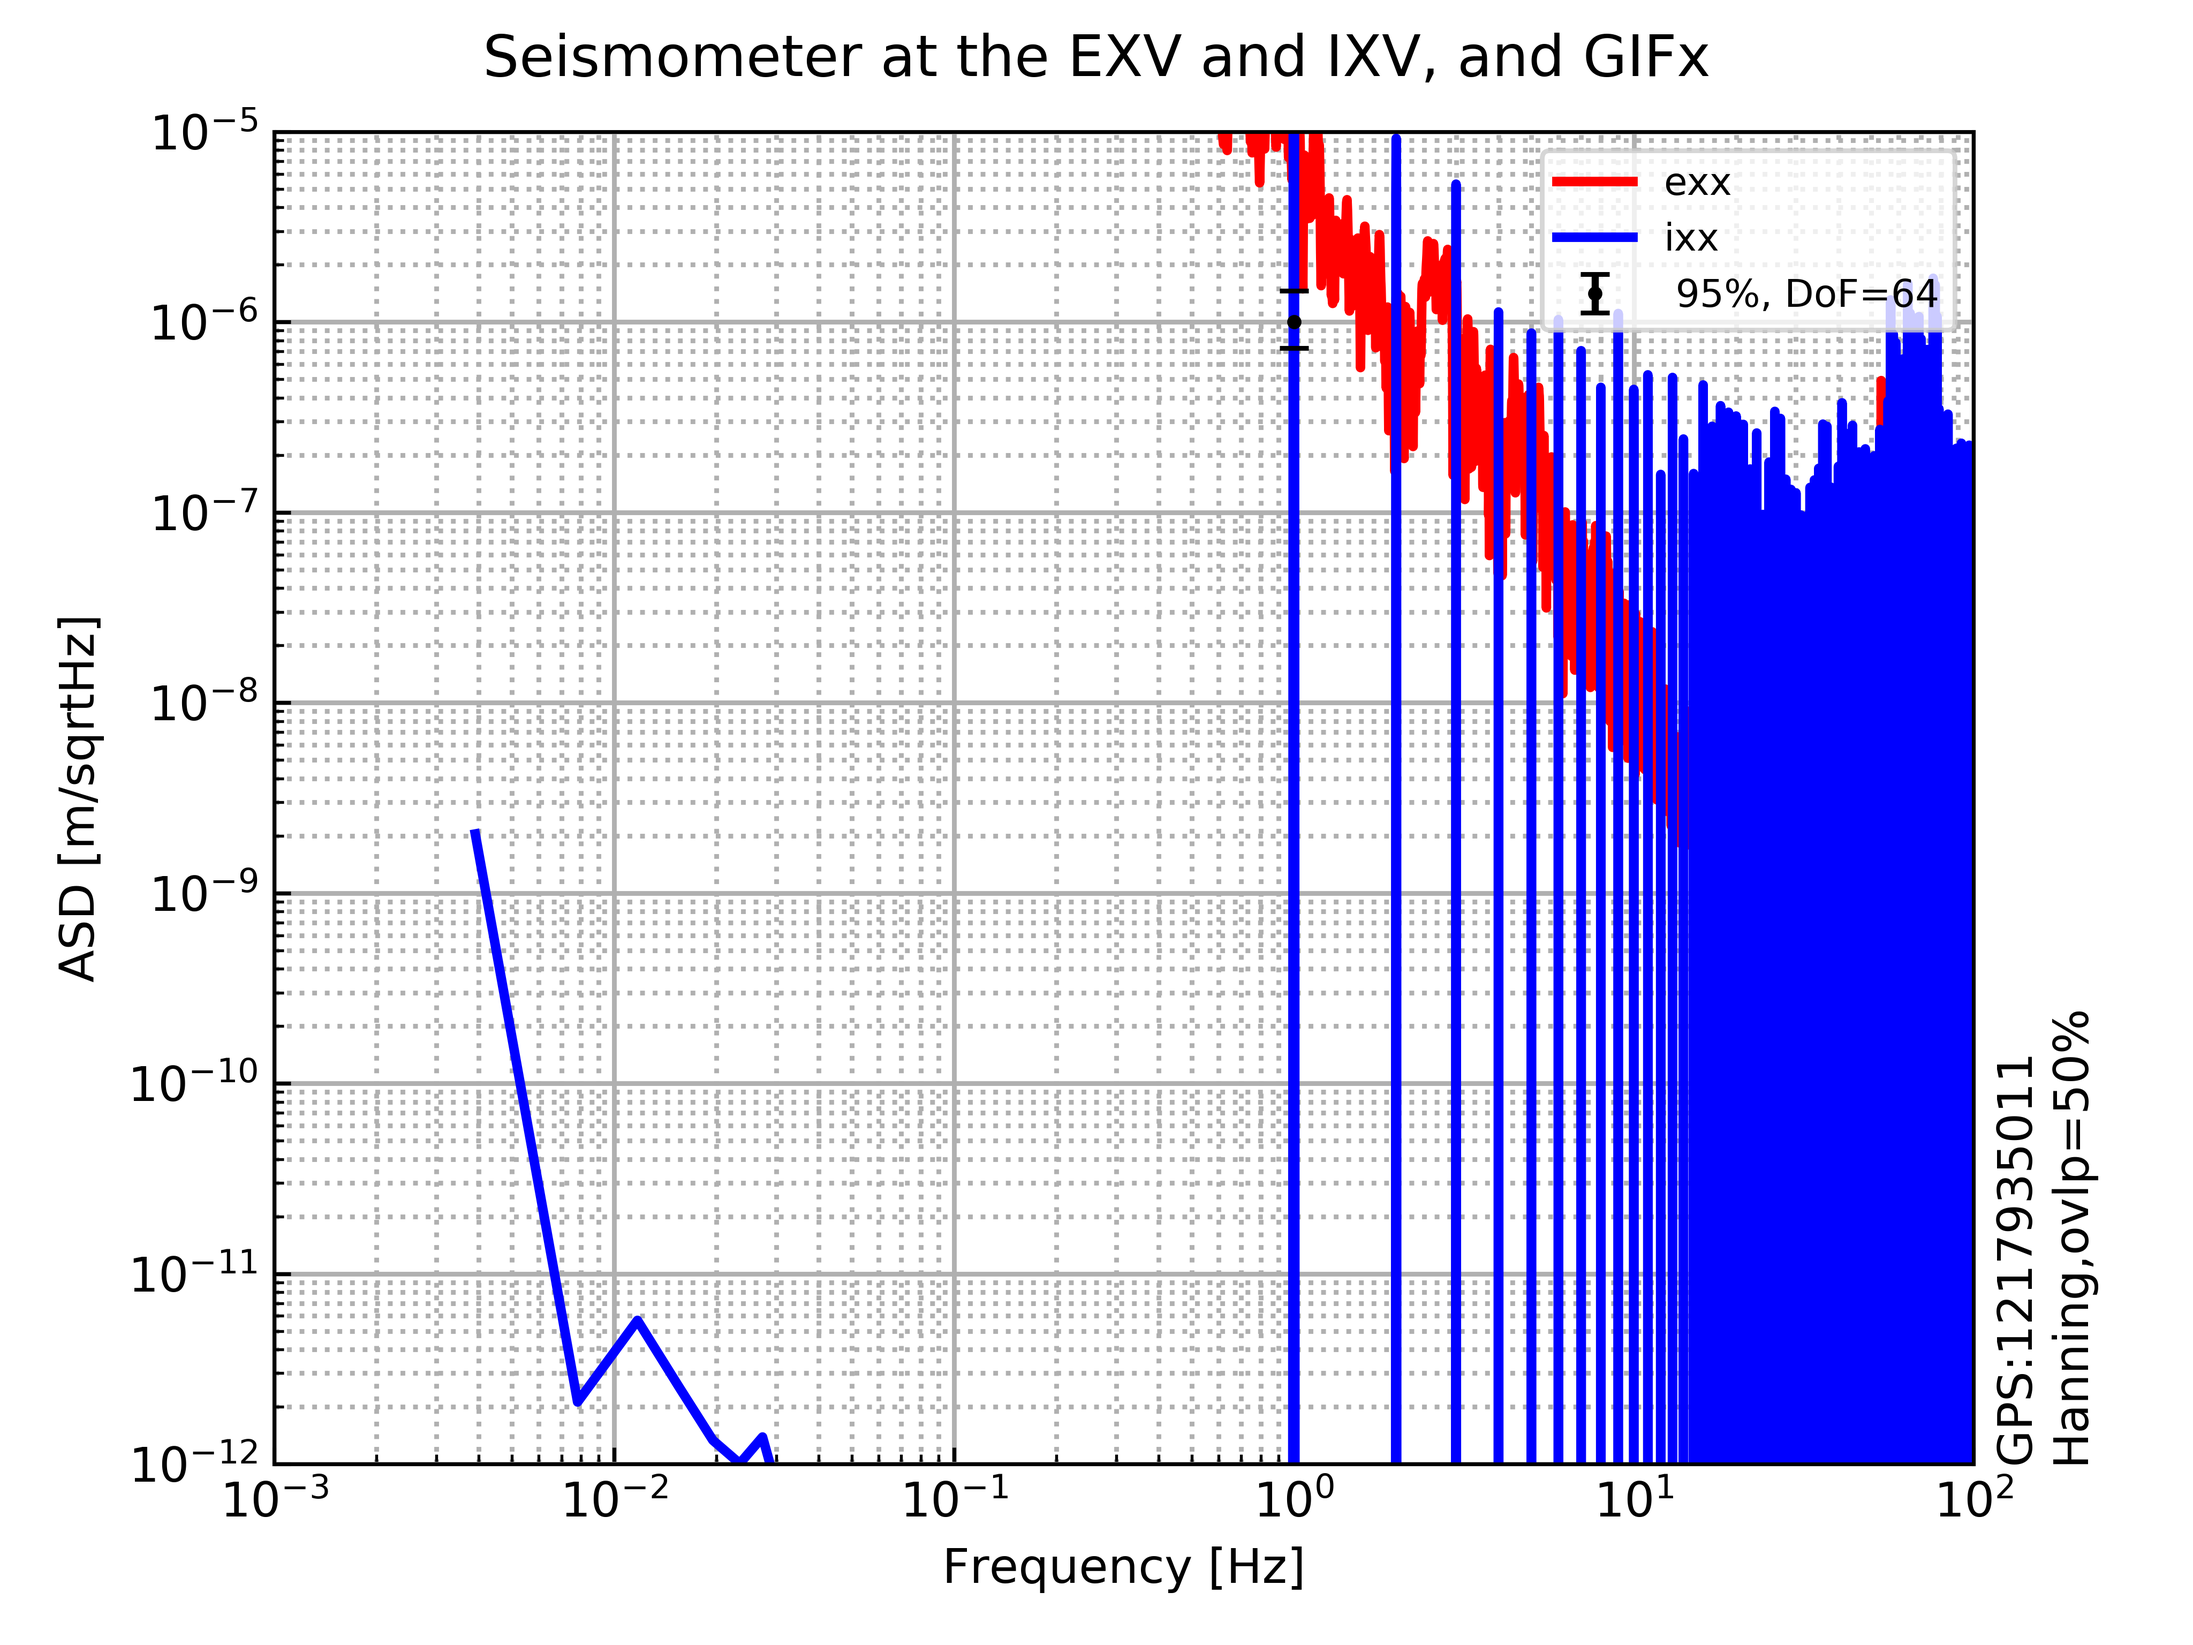
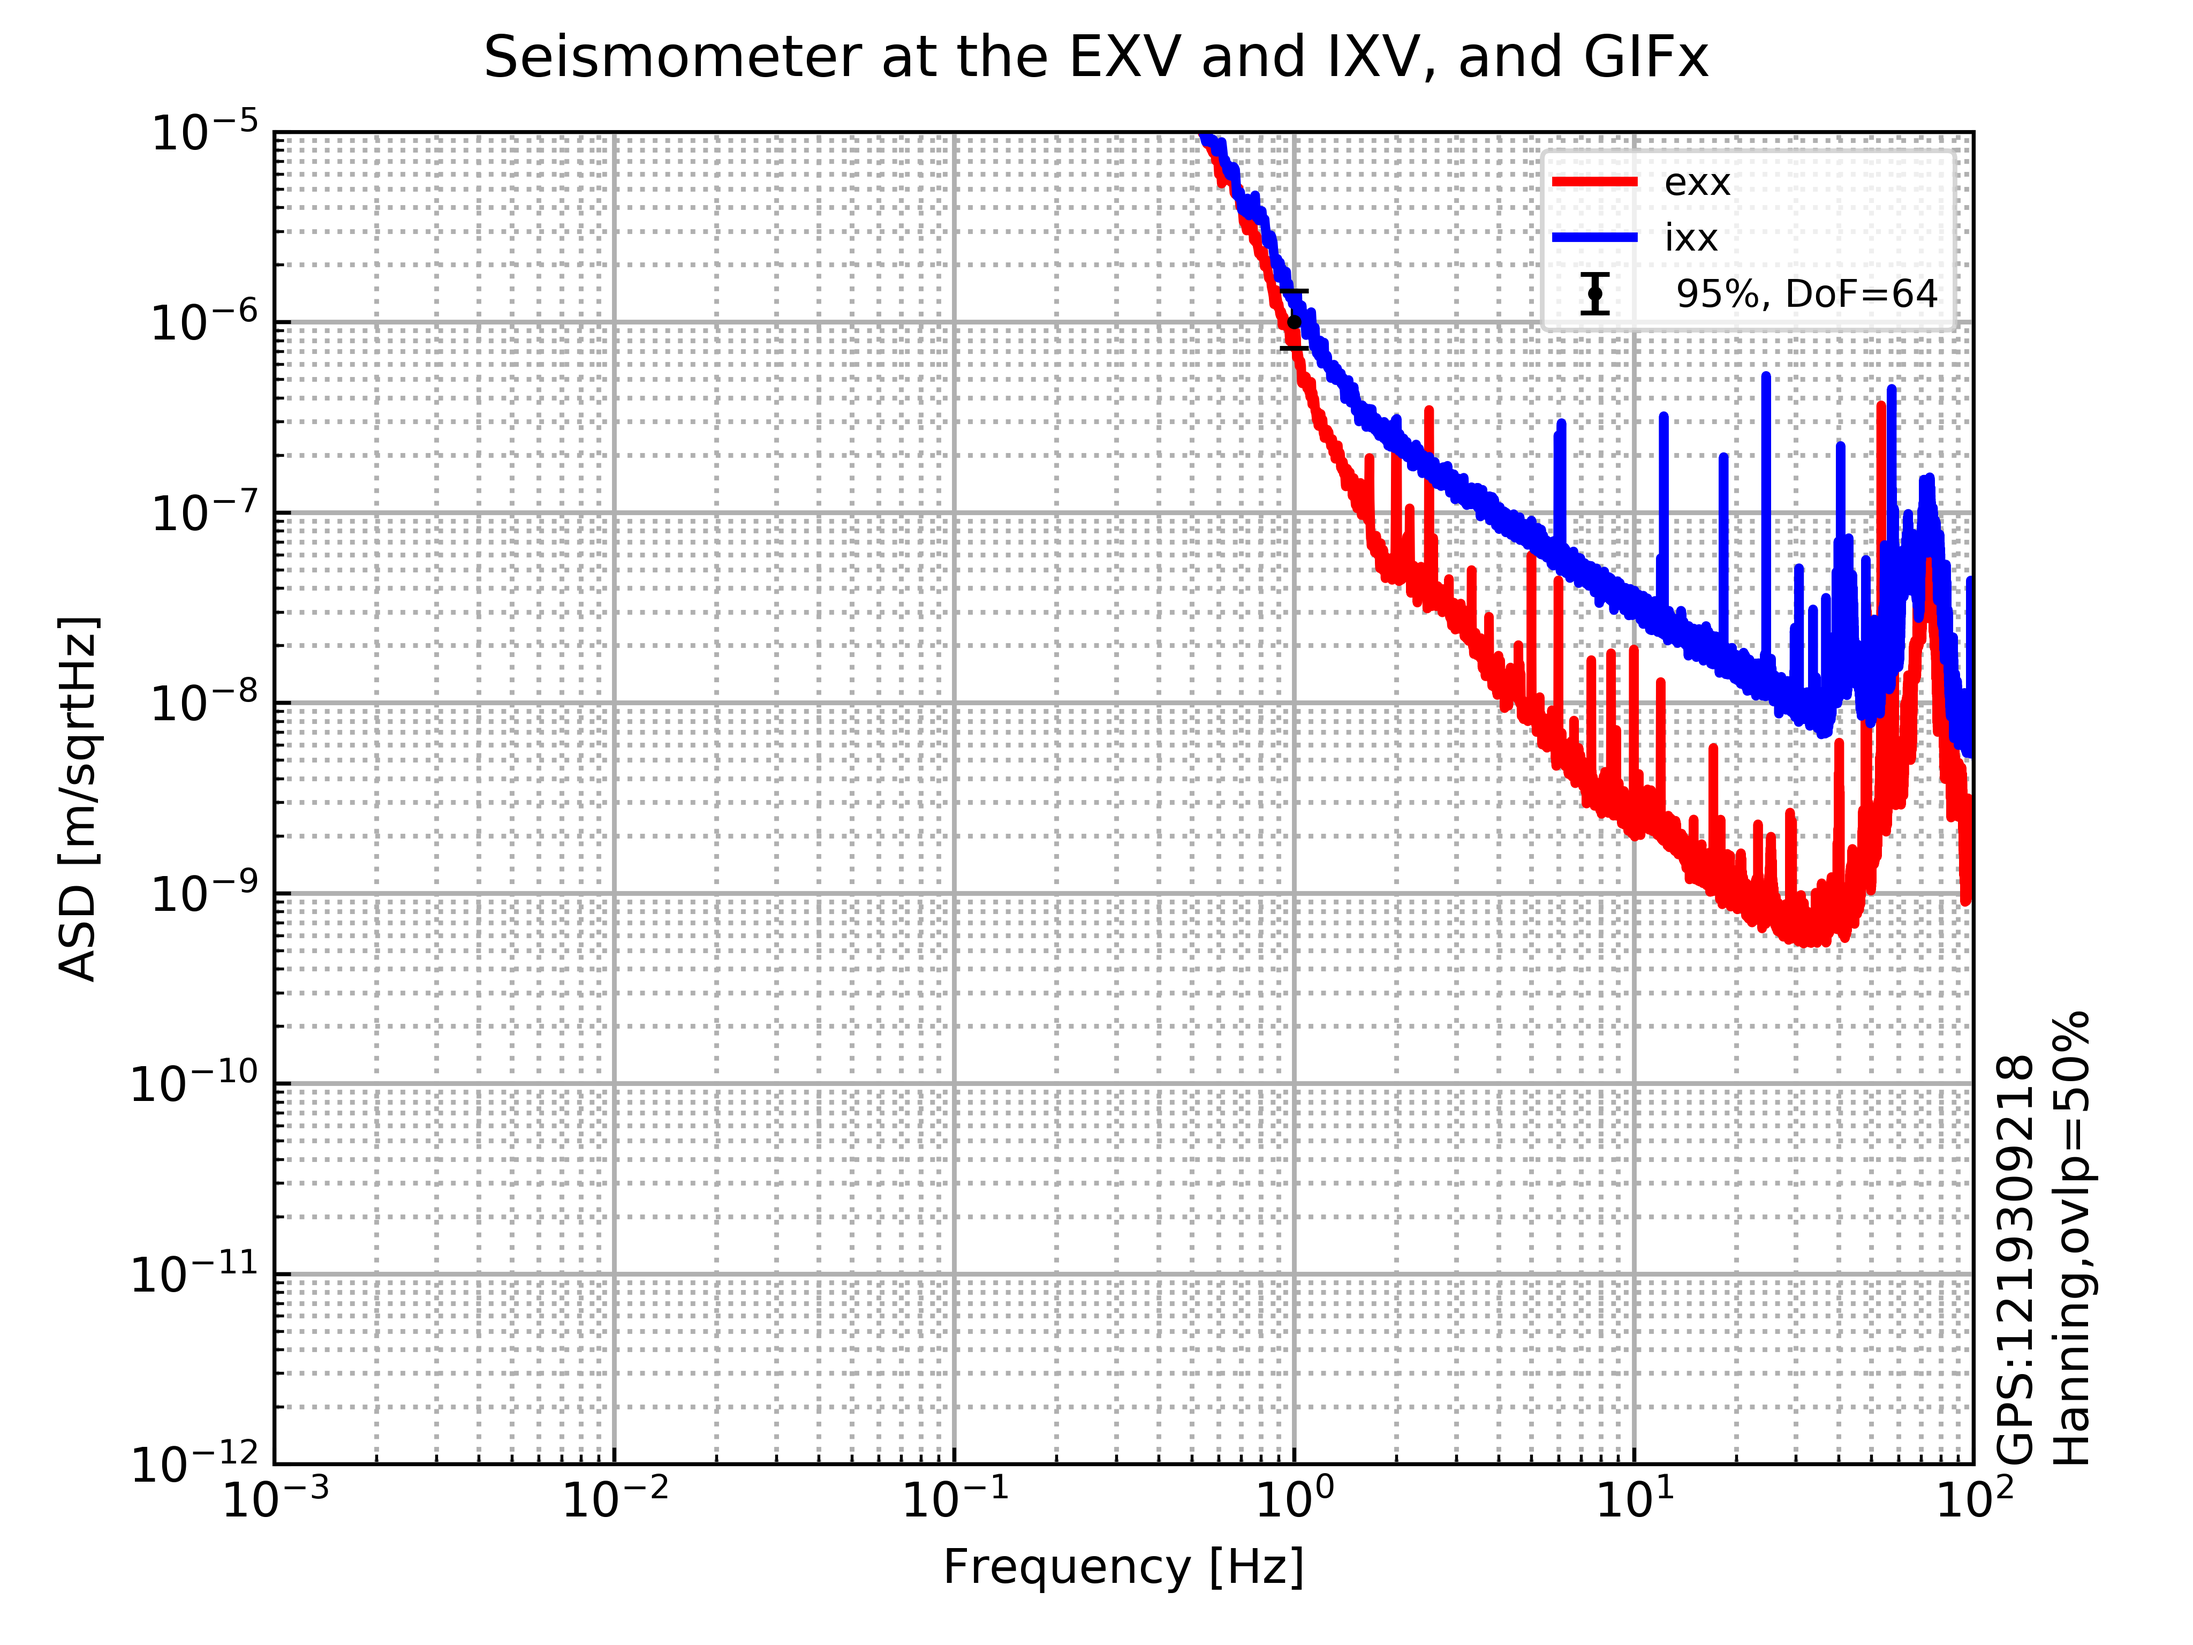
cdmrのmain.pyを書き換えた。8月26日18時からおよそ二時間分のデータをNDSからダンプしておいた。

diff --git a/cdmr/main.py b/cdmr/main.py
@@ -223,7 +223,8 @@ if __name__ == '__main__':
     start,end = 1217926818, 1217926818+2**13
     start,end = 1217935011, 1217943203
     start,end = 1217257218, 1217257218+2**13
-    start,end = 1217170818, 1217170818+2**13    
+    start,end = 1217170818, 1217170818+2**13
+    start,end = 1219309218, 1219309218+2**13  # JST 2018-08-26T18:00:00
     
     exx = read(start,end,chname_dict['exx'])*deGain_120QA*c2V # Volt
     exy = read(start,end,chname_dict['exy'])*deGain_120QA*c2V # Volt
